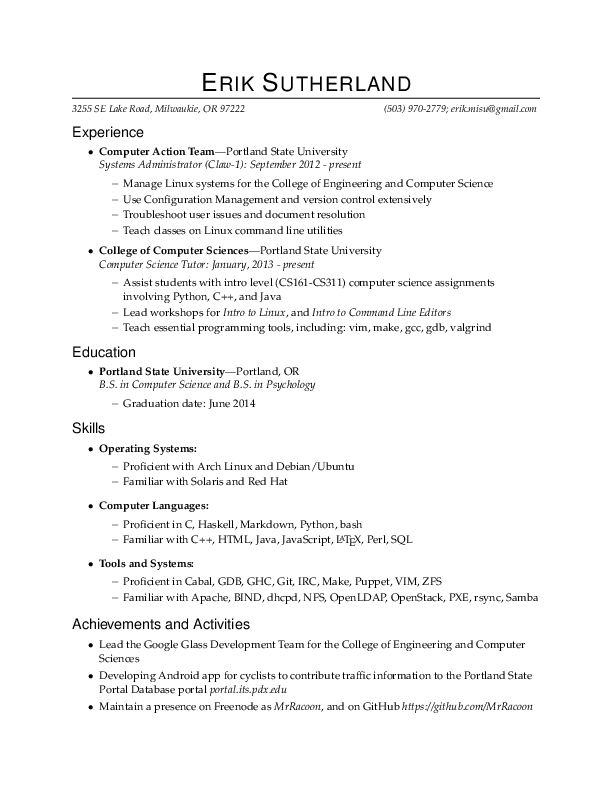
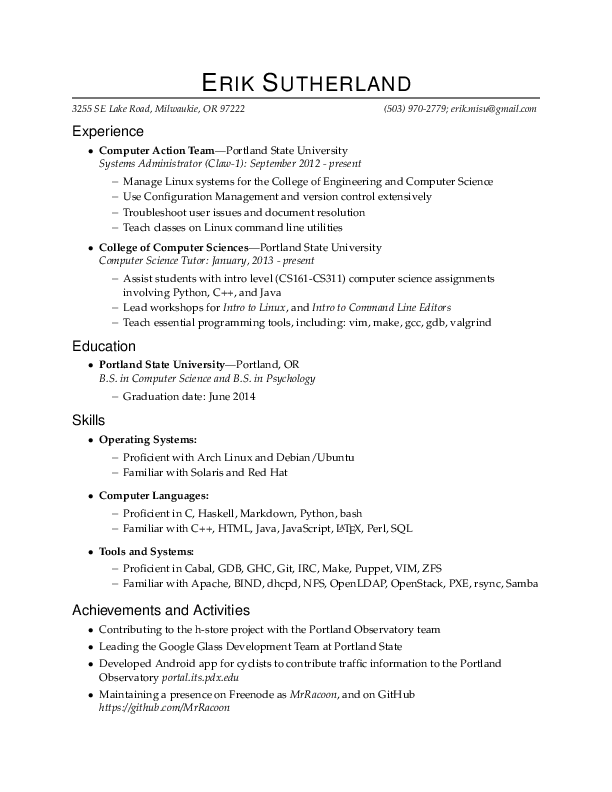
Updated on Wed Apr 16 23:39:50 PDT 2014
added to activities section

Changed region(s): [[0.1242, 0.5152, 0.8693, 0.9091], [0.1242, 0.1515, 0.8072, 0.5152]]

diff --git a/resume.tex b/resume.tex
@@ -135,9 +135,10 @@
 
 %%%%%%%%%%%%%%%%%%%%%%%%
 \begin{ressection}{Achievements and Activities}
-    \resitem{Lead the Google Glass Development Team for the College of Engineering and Computer Sciences}
-    \resitem{Developing Android app for cyclists to contribute traffic information to the Portland State Portal Database portal \textit{portal.its.pdx.edu}}
-    \resitem{Maintain a presence on Freenode as \textit{MrRacoon}, and on GitHub \textit{https://github.com/MrRacoon}}
+    \resitem{Contributing to the h-store project with the Portland Observatory team}
+    \resitem{Leading the Google Glass Development Team at Portland State}
+    \resitem{Developed Android app for cyclists to contribute traffic information to the Portland Observatory \textit{portal.its.pdx.edu}}
+    \resitem{Maintaining a presence on Freenode as \textit{MrRacoon}, and on GitHub \textit{https://github.com/MrRacoon}}
 \end{ressection}
 
 
